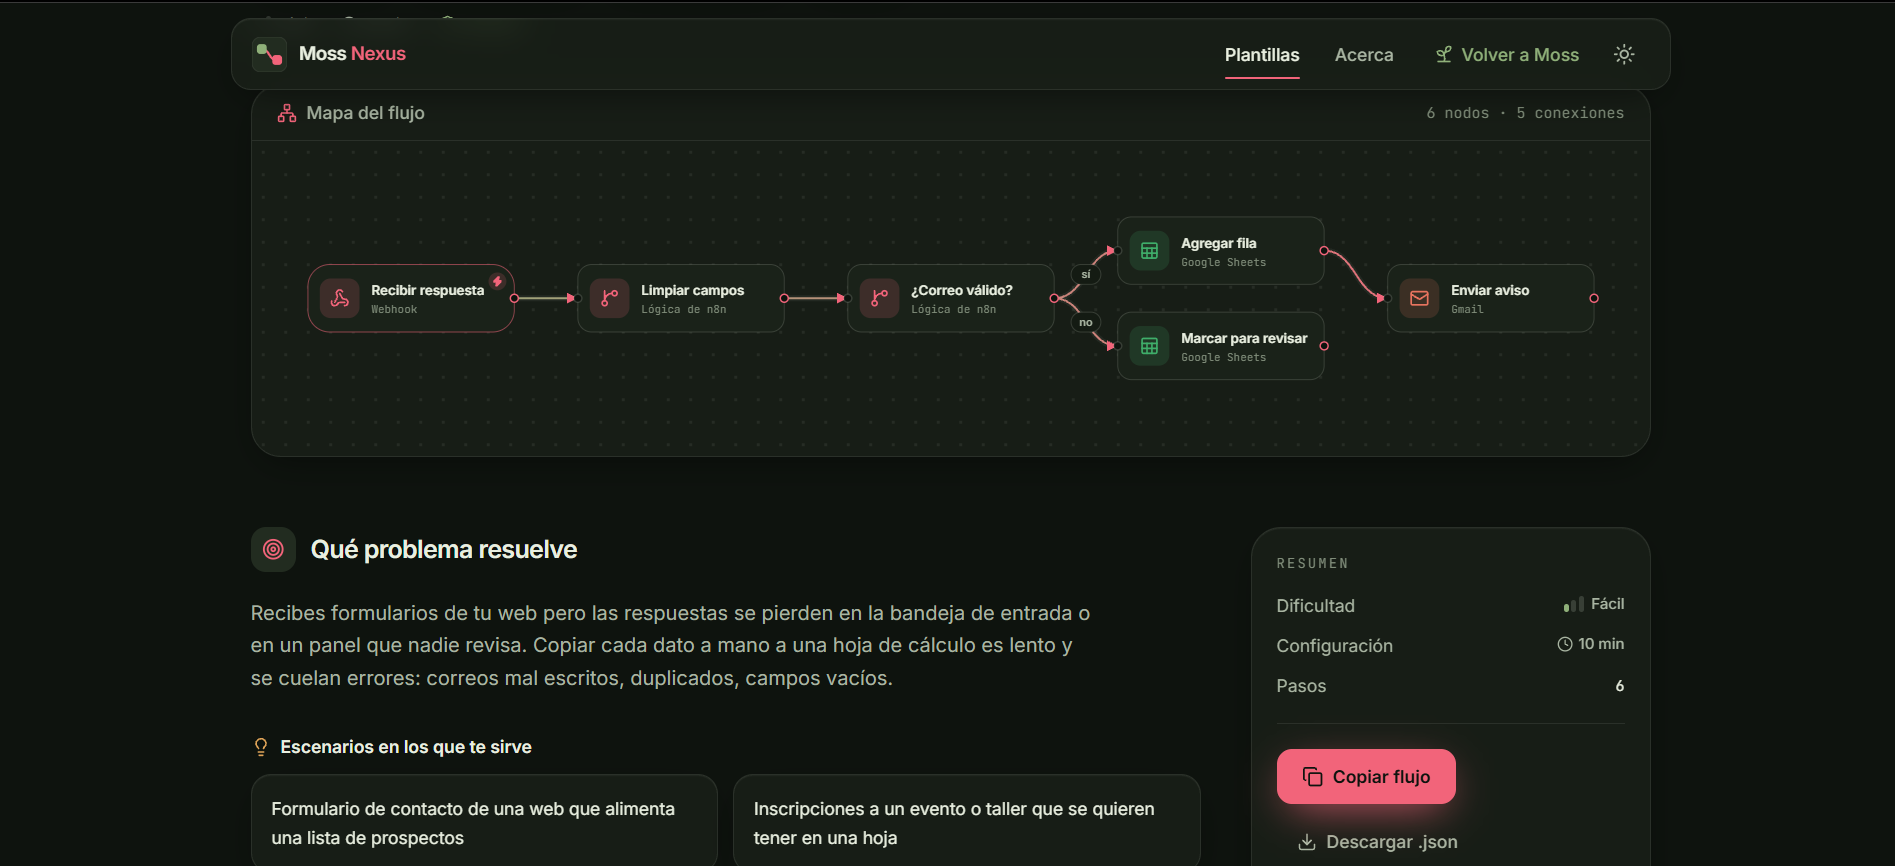
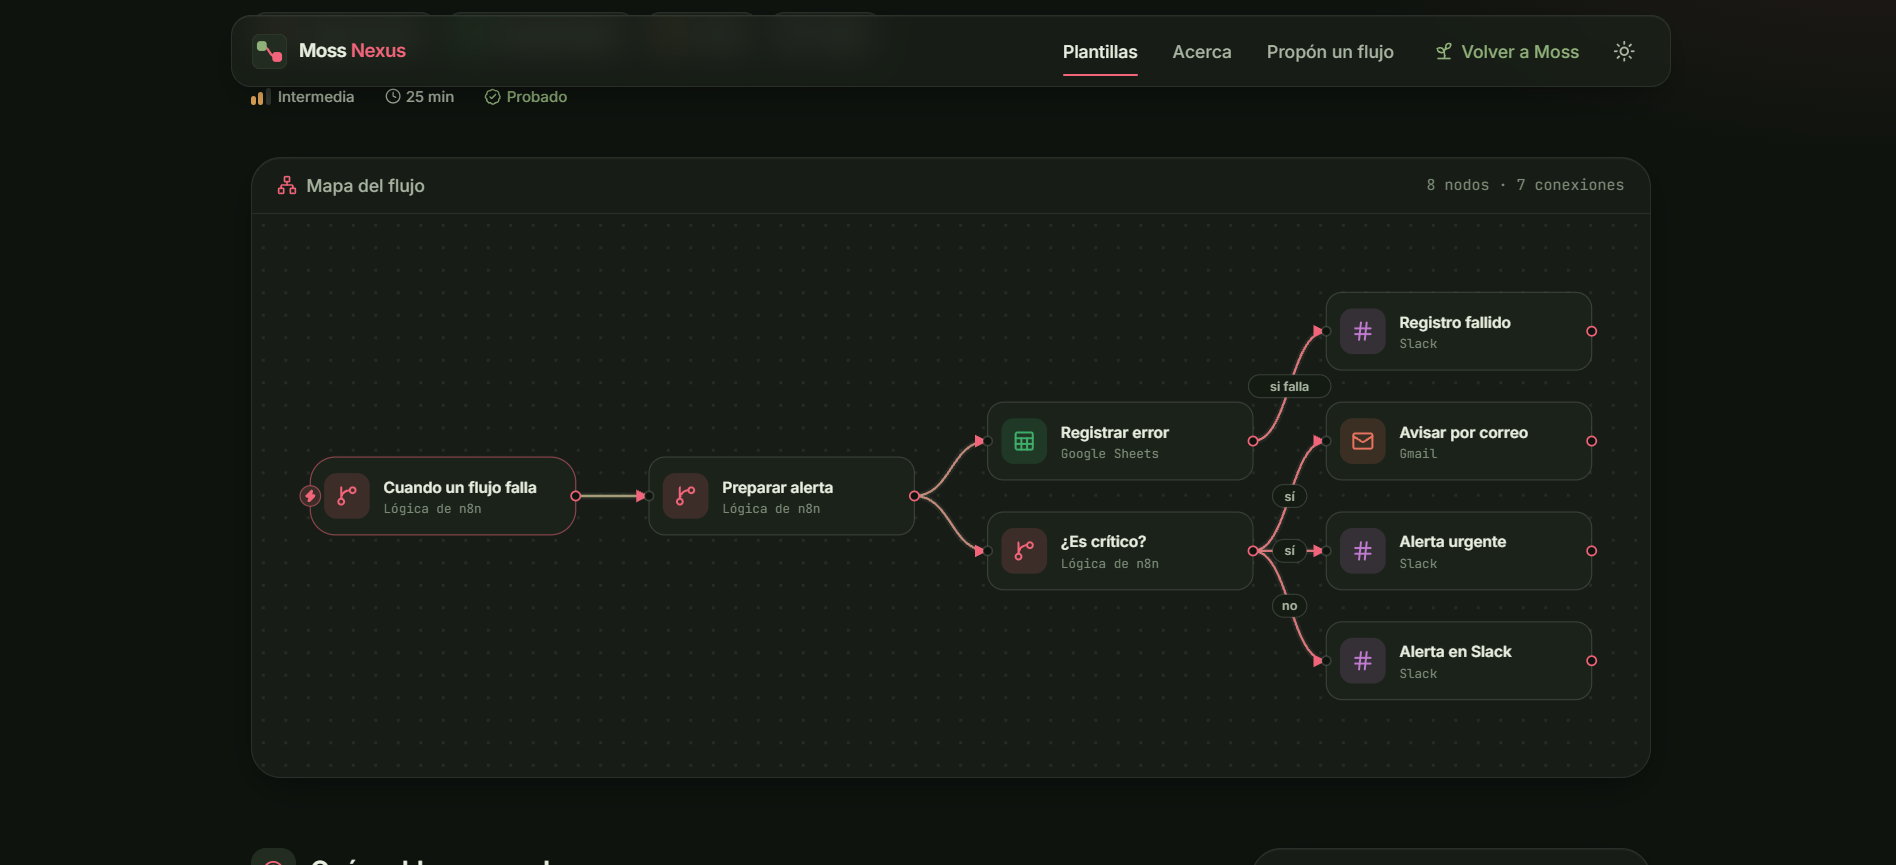
docs: actualiza las capturas del readme con propón un flujo

diff --git a/README.md b/README.md
@@ -9,21 +9,21 @@ Librería de flujos de automatización para **n8n**, ya armados, explicados y li
 <table>
   <tr>
     <td align="center" width="50%">
-      <a href="docs/img/inicio.png"><img src="docs/img/inicio.png" alt="Inicio de Moss Nexus: buscador y lienzo con un flujo animado" width="400"></a>
+      <a href="docs/img/inicio.png"><img src="docs/img/inicio.png" alt="Inicio de Moss Nexus: buscador y cifras de la librería" width="400"></a>
       <br><sub><b>Inicio</b></sub>
     </td>
     <td align="center" width="50%">
-      <a href="docs/img/plantillas.png"><img src="docs/img/plantillas.png" alt="Galería de plantillas con búsqueda y filtros" width="400"></a>
+      <a href="docs/img/plantillas.png"><img src="docs/img/plantillas.png" alt="Galería de plantillas con filtros por herramienta, categoría y dificultad" width="400"></a>
       <br><sub><b>Plantillas</b></sub>
     </td>
   </tr>
   <tr>
     <td align="center" width="50%">
-      <a href="docs/img/acerca.png"><img src="docs/img/acerca.png" alt="Página Acerca: qué es Nexus y su relación con Moss" width="400"></a>
-      <br><sub><b>Acerca</b></sub>
+      <a href="docs/img/propon.png"><img src="docs/img/propon.png" alt="Página Propón un flujo: formulario para proponer un flujo o escribir directamente" width="400"></a>
+      <br><sub><b>Propón un flujo</b></sub>
     </td>
     <td align="center" width="50%">
-      <a href="docs/img/ejemplo.png"><img src="docs/img/ejemplo.png" alt="Detalle de una plantilla con su mapa del flujo" width="400"></a>
+      <a href="docs/img/ejemplo.png"><img src="docs/img/ejemplo.png" alt="Mapa del flujo de la plantilla de alertas de errores, con el registro antes de los avisos" width="400"></a>
       <br><sub><b>Ejemplo</b></sub>
     </td>
   </tr>
